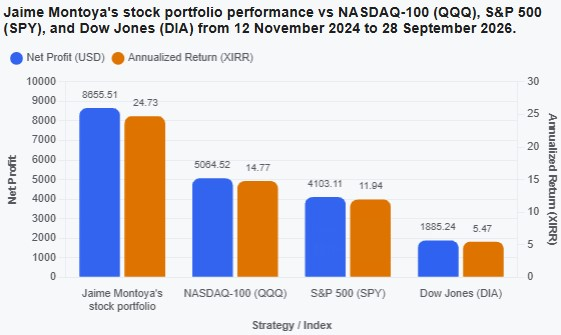
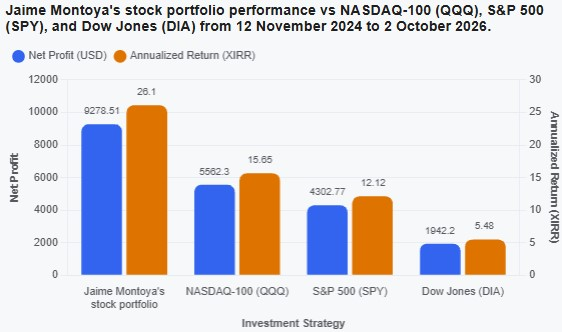
Update graph.

diff --git a/index.php b/index.php
@@ -157,13 +157,13 @@
 <!-- Isolated Terminal Style Table Container End -->
 
 
-  <h2 style=\"cursor: default; user-select: none; -webkit-font-smoothing: antialiased; font-family: Arial; font-size: 16px; font-weight: bold;\">Jaime Montoya's stock portfolio performance vs NASDAQ-100 (QQQ), S&P 500 (SPY), and Dow Jones (DIA) from 12 November 2024 to 28 September 2026.</h2>
+  <h2 style=\"cursor: default; user-select: none; -webkit-font-smoothing: antialiased; font-family: Arial; font-size: 16px; font-weight: bold;\">Jaime Montoya's stock portfolio performance vs NASDAQ-100 (QQQ), S&P 500 (SPY), and Dow Jones (DIA) from 12 November 2024 to 2 October 2026.</h2>
   <img src=\"beat-the-market/jaimeMontoyasPortfolioBeatingTheMarket.jpg\" 
      alt=\"Jaime Montoya's Portfolio beating the market\" 
-     width=\"561\" 
-     height=\"335\" 
+     width=\"562\" 
+     height=\"332\" 
      style=\"max-width: 100%; height: auto;\">
-  <!-- Credits: https://share.google/aimode/v6dDxJxWVbPUDeFvl -->
+  <!-- Credits: https://share.google/aimode/PZED86KgEsBxeXJRk -->
   ";
   $index->Display();
 ?>
